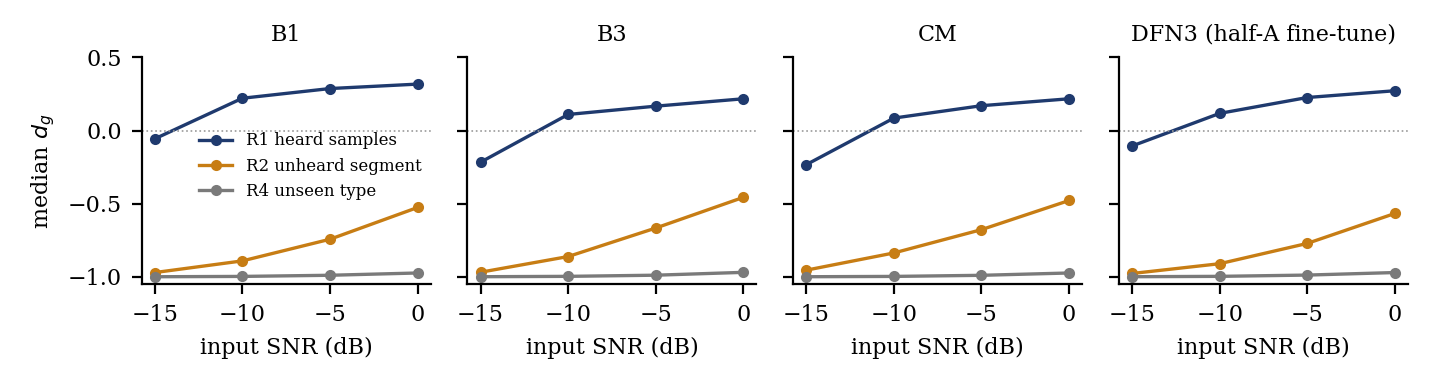
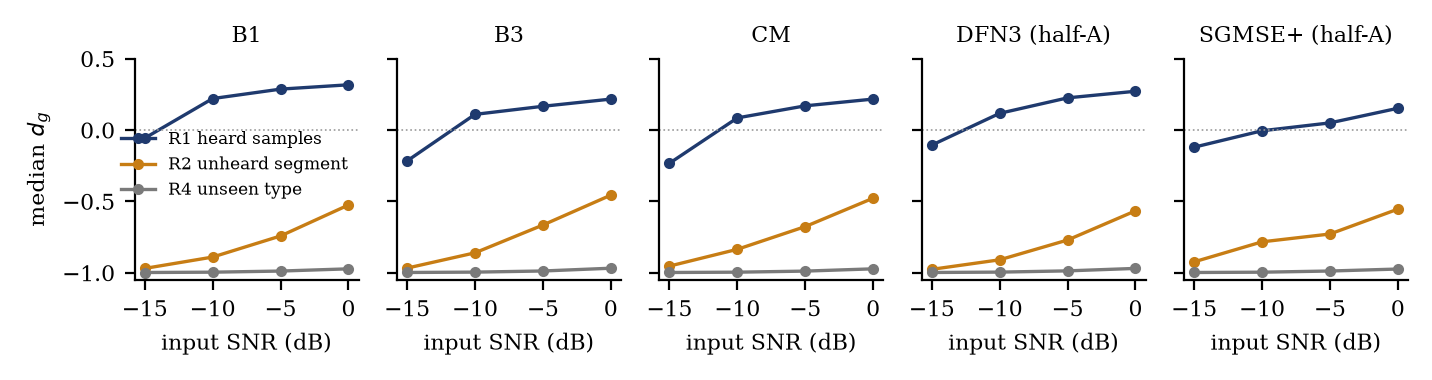
fig_ladder: add the SGMSE+ generative panel
Gate U2 passes on all three non-bounded classes, and the generative arm orders
R1 > R2 > R4 at all four low-SNR levels (-0.120 / -0.924 / -0.998 at -15 dB,
0.152 / -0.554 / -0.974 at 0 dB), which is the condition for the panel.

Five panels in the same 7.16 in width, so the DFN3 title loses the word
"fine-tune" to keep the titles from colliding.

diff --git a/paper/figs_src/fig_universal.py b/paper/figs_src/fig_universal.py
@@ -1,6 +1,6 @@
 """Two paper figures from committed CSVs. Run from the repo root:
     python paper/figs_src/fig_universal.py
-fig_ladder: median d_g per rung (R1, R2, R4) by SNR for b1, b3, cm, dfn3 (U1 and U2 cells).
+fig_ladder: median d_g per rung (R1, R2, R4) by SNR for b1, b3, cm, dfn3, sgmse (U1 and U2 cells).
 fig_u3_ceiling: U3 mean within-cell rho per arm against the label-reliability ceiling.
 """
 import pandas as pd
@@ -15,10 +15,11 @@ OUT = "paper/figs/"
 
 cells = pd.concat([pd.read_csv(U + "u1_cells.csv"), pd.read_csv(U + "u2_cells.csv")])
 cells = cells[cells.fold == "all"].drop_duplicates(["arch", "snr"])
-names = {"b1": "B1", "b3": "B3", "cm": "CM", "dfn3": "DFN3 (half-A fine-tune)"}
+names = {"b1": "B1", "b3": "B3", "cm": "CM", "dfn3": "DFN3 (half-A)",
+         "sgmse": "SGMSE+ (half-A)"}
 cols = {"R1": "#1f3a6e", "R2": "#c77d14", "R4": "#7a7a7a"}
 labs = {"R1": "R1 heard samples", "R2": "R2 unheard segment", "R4": "R4 unseen type"}
-fig, axs = plt.subplots(1, 4, figsize=(7.16, 1.9), sharey=True)
+fig, axs = plt.subplots(1, 5, figsize=(7.16, 1.9), sharey=True)
 for ax, a in zip(axs, names):
     g = cells[cells.arch == a].sort_values("snr")
     for r in ("R1", "R2", "R4"):
